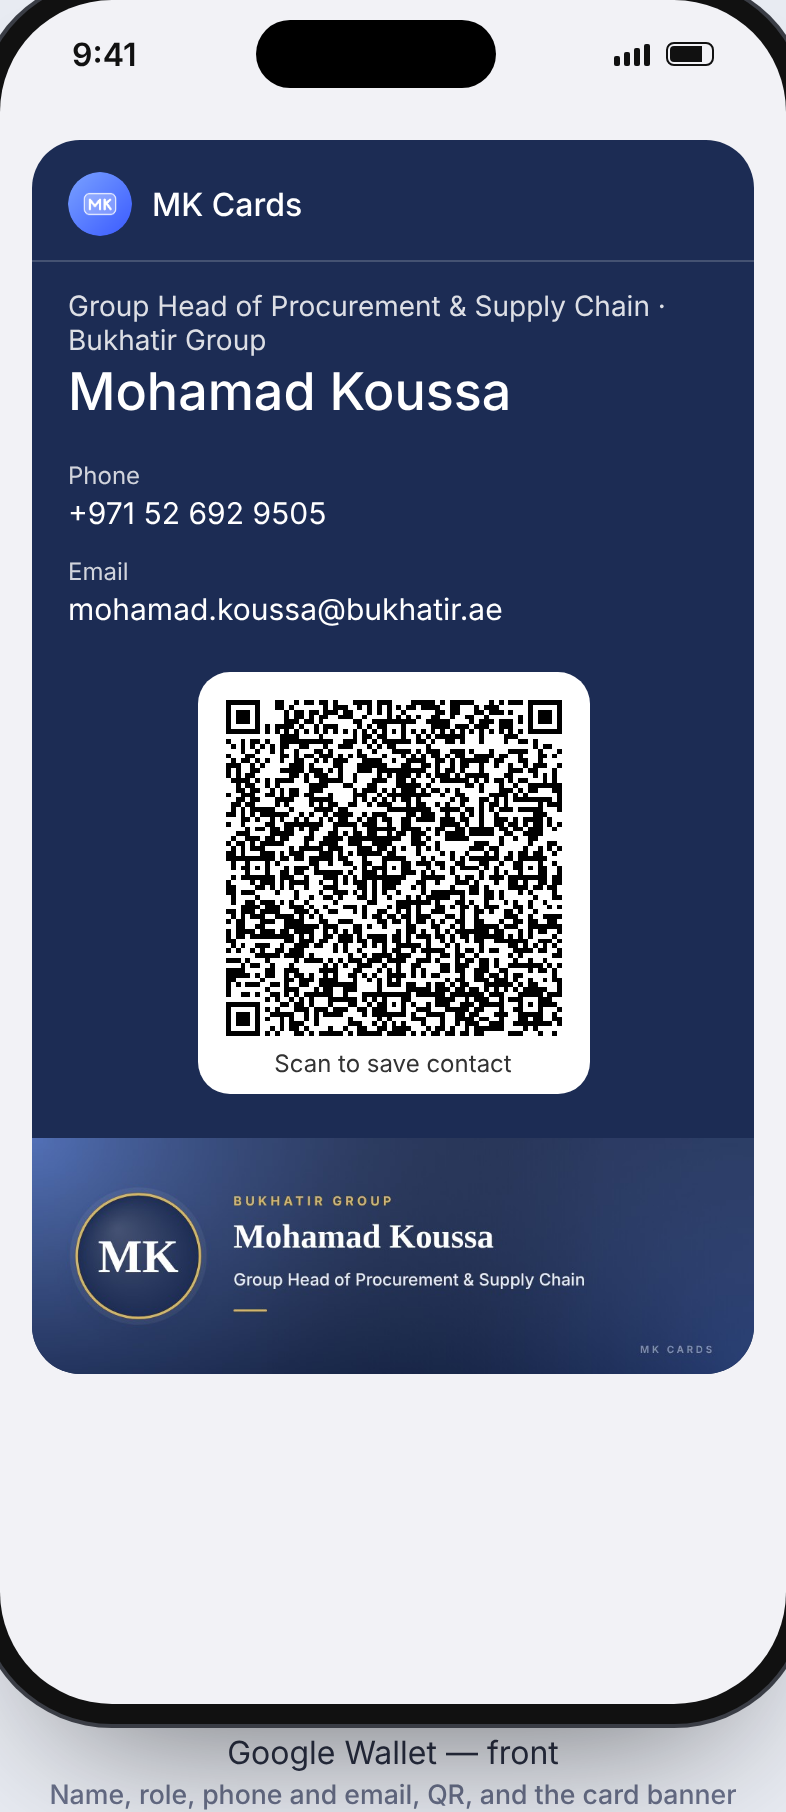
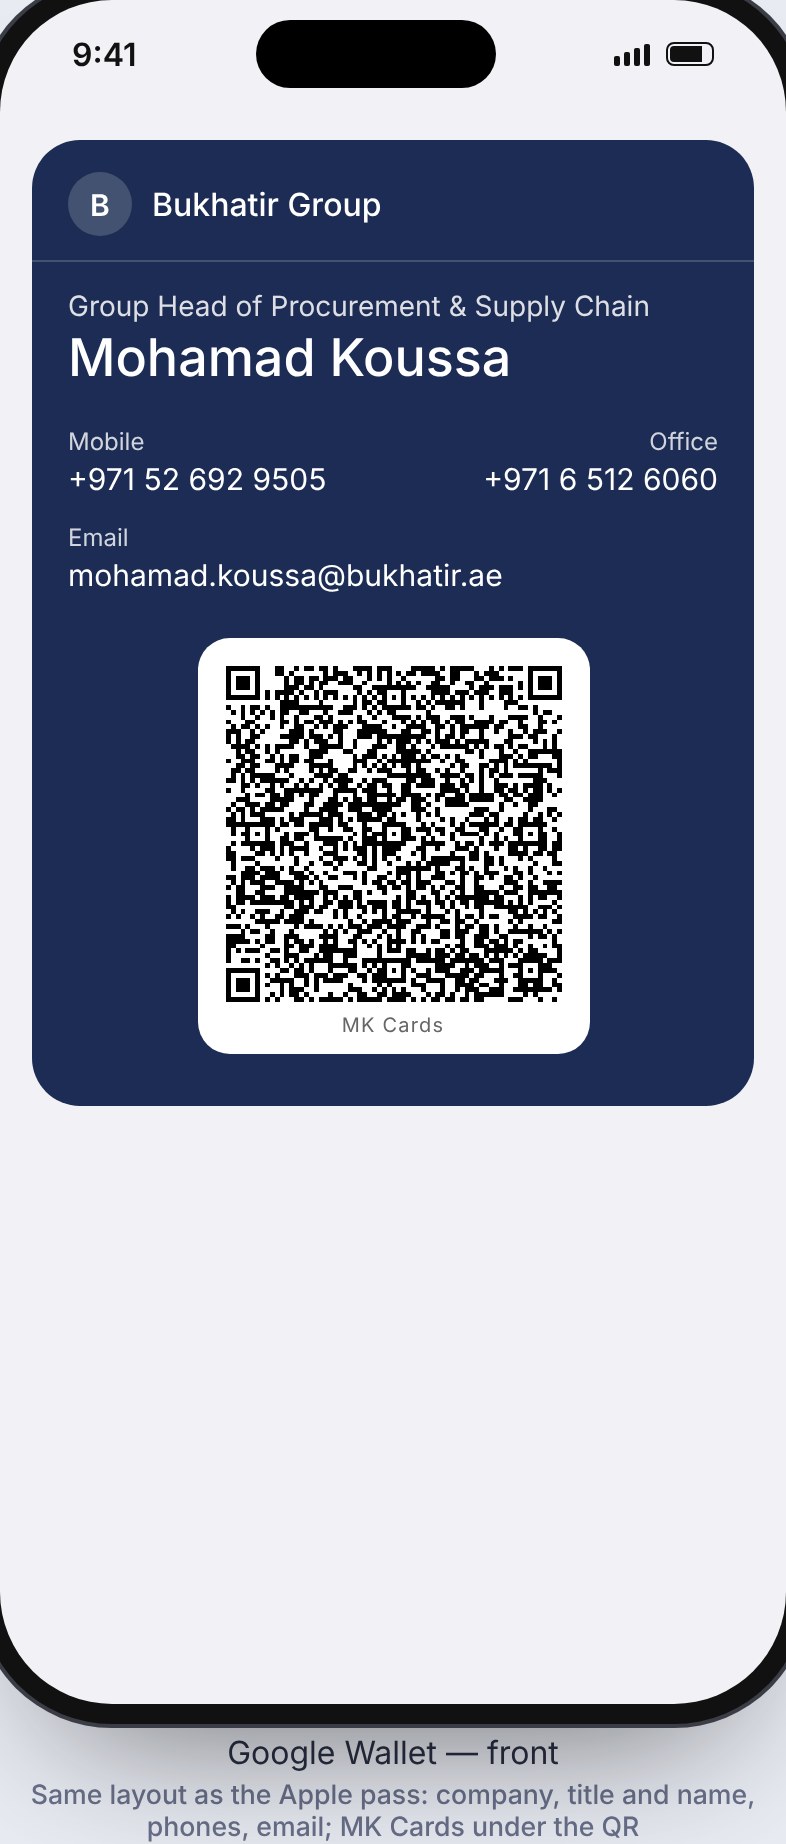
Google Wallet pass matches the Apple pass
Company at the top, title over the name, two phone numbers side by side, then the
email; no logo or banner; "MK Cards" in small print under the QR code.

Claude-Session: https://claude.ai/code/session_01CiqwjSqqycpt33yuy6eG8J

Changed region(s): [[0.0305, 0.0927, 0.9771, 0.7726], [0.0, 0.8653, 1.0, 1.0], [0.6412, 0.2163, 0.916, 0.2781]]

diff --git a/web/src/wallet.js b/web/src/wallet.js
@@ -173,49 +173,55 @@ function sign(manifestText, cert, key) {
 
 const text = (value) => ({ defaultValue: { language: 'en', value } });
 
+// Google Wallet mirrors the Apple pass: company at the top, title over the name, two phone numbers side by side,
+// then the email; no pictures; "MK Cards" in small print under the QR code. (Google picks the text colours itself
+// and has no logo, so it shows the company's first letter in the top corner.)
 function googleClass(issuer) {
+  const value = (id) => ({ firstValue: { fields: [{ fieldPath: `object.textModulesData['${id}']` }] } });
   return {
     id: `${issuer}.mkcards_business_card`,
-    // Show the phone and the email on the front of the pass, each on its own row so neither is squeezed.
     classTemplateInfo: {
       cardTemplateOverride: {
-        cardRowTemplateInfos: ['phone', 'email'].map((id) => ({
-          oneItem: { item: { firstValue: { fields: [{ fieldPath: `object.textModulesData['${id}']` }] } } },
-        })),
+        cardRowTemplateInfos: [
+          { twoItems: { startItem: value('phone'), endItem: value('phone2') } },
+          { oneItem: { item: value('email') } },
+        ],
       },
     },
   };
 }
 
-function googleObject(issuer, { cardId, card, link, origin, hero }) {
+function googleObject(issuer, { cardId, card, link }) {
   const phones = card.phones || [];
   const emails = card.emails || [];
+  const phoneLabel = (p) => ({ mobile: 'Mobile', work: 'Office', home: 'Home' })[p.label] || 'Phone';
   const uris = [
     ...phones.map((p, i) => ({ id: `tel${i}`, uri: `tel:${p.value.replace(/[^\d+]/g, '')}`, description: `Call ${p.value}` })),
     ...emails.map((e, i) => ({ id: `mail${i}`, uri: `mailto:${e.value}`, description: `Email ${e.value}` })),
     card.whatsapp && { id: 'whatsapp', uri: `https://wa.me/${card.whatsapp.replace(/\D/g, '')}`, description: 'Chat on WhatsApp' },
     card.website && { id: 'web', uri: card.website, description: 'Website' },
-    { id: 'page', uri: link, description: 'My MK card' },
+    { id: 'page', uri: link, description: 'My card' },
   ].filter(Boolean);
+  const second = phones[1] ? { id: 'phone2', header: phoneLabel(phones[1]), body: phones[1].value }
+    : card.whatsapp ? { id: 'phone2', header: 'WhatsApp', body: card.whatsapp } : null;
   return {
     id: `${issuer}.mk_${cardId}`,
     classId: `${issuer}.mkcards_business_card`,
     state: 'ACTIVE',
-    cardTitle: text('MK Cards'),
+    cardTitle: text(card.company || card.name),
+    subheader: text(card.title || 'Business card'),
     header: text(card.name),
-    subheader: text([card.title, card.company].filter(Boolean).join(' · ') || 'Business card'),
     hexBackgroundColor: passColours(card).hex,
-    logo: { sourceUri: { uri: `${origin}/wallet/google-logo.png` }, contentDescription: text('MK Cards') },
-    ...(hero ? { heroImage: { sourceUri: { uri: origin + hero }, contentDescription: text(`${card.name}'s card`) } } : {}),
     textModulesData: [
-      phones[0] && { id: 'phone', header: 'Phone', body: phones[0].value },
+      phones[0] && { id: 'phone', header: phoneLabel(phones[0]), body: phones[0].value },
+      second,
       emails[0] && { id: 'email', header: 'Email', body: emails[0].value },
-      card.company && { id: 'company', header: 'Company', body: card.company },
+      card.department && { id: 'department', header: 'Department', body: card.department },
       card.address && { id: 'address', header: 'Address', body: card.address },
       card.bio && { id: 'about', header: 'About', body: card.bio },
     ].filter(Boolean),
     linksModuleData: { uris },
-    barcode: { type: 'QR_CODE', value: qrVCard(card, link), alternateText: 'Scan to save contact' },
+    barcode: { type: 'QR_CODE', value: qrVCard(card, link), alternateText: 'MK Cards' },
   };
 }
 

diff --git a/web/public/card-art.js b/web/public/card-art.js
@@ -1,6 +1,5 @@
 // Pictures drawn from a card in the browser when it is saved:
 //   og    1200×630 JPEG  — the image shown in link previews (WhatsApp, LinkedIn, iMessage…)
-//   hero  1032×336 JPEG  — the banner at the bottom of the Google Wallet pass
 // Drawing here, not on the server, means every language renders with the phone's own fonts.
 // The look follows the card page: a deep shade of the card's colour, a round photo with a fine gold ring,
 // the name in a serif face and the company as a small spaced heading.
@@ -43,7 +42,6 @@ export async function drawCardArt(card, link) {
   const photo = card.photo ? await loadImage(card.photo).catch(() => null) : null;
   return {
     og: drawPreview(card, link, photo).toDataURL('image/jpeg', 0.9),
-    hero: drawHero(card, link, photo).toDataURL('image/jpeg', 0.9),
   };
 }
 
@@ -92,25 +90,6 @@ function drawPreview(card, link, photo) {
   ctx.fillText(fit(ctx, label, pillW - 52), pillX + 26, pillY + 26);
   ctx.textBaseline = 'alphabetic';
   text(ctx, 'MK CARDS', 48 + 70, H - 48 - 58, size, `600 17px ${SANS}`, 20, 1, 'rgba(255,255,255,.5)', 'left', 5, true);
-  return canvas;
-}
-
-function drawHero(card, link, photo) {
-  const W = 1032, H = 336;
-  const { canvas, ctx } = surface(W, H);
-  const t = cardTheme(card);
-  backdrop(ctx, W, H, t, card.style);
-  const size = 176;
-  avatar(ctx, card, photo, 64 + size / 2, H / 2, size, t);
-  const x = 64 + size + 48;
-  const maxW = W - 56 - x;
-  const align = isRtl(card.name) ? 'right' : 'left';
-  let y = 96;
-  if (card.company) y = text(ctx, card.company.toUpperCase(), x, y, maxW, `650 18px ${SANS}`, 28, 1, t.hi, align, 5) + 10;
-  y = text(ctx, card.name || 'MK Cards', x, y + 22, maxW, `700 48px ${SERIF}`, 54, 1, '#fff', align);
-  if (card.title) y = text(ctx, card.title, x, y, maxW, `500 24px ${SANS}`, 32, 1, 'rgba(255,255,255,.9)', align);
-  rule(ctx, align === 'right' ? x + maxW - 48 : x, y + 2, t.hi, 48);
-  text(ctx, 'MK CARDS', W - 56 - 160, H - 30, 160, `600 14px ${SANS}`, 18, 1, 'rgba(255,255,255,.45)', 'right', 4, true);
   return canvas;
 }
 

diff --git a/web/src/index.js b/web/src/index.js
@@ -586,7 +586,6 @@ async function walletPass(request, env, url, id, kind) {
   if (!row) throw new HttpError(404, 'Card not found.');
   const card = readCard(row.data);
   const link = `${url.origin}/${user.username}${row.slug ? '/' + row.slug : ''}`;
-  const media = await cardMedia(env, id);
   const ready = walletStatus(env);
 
   if (kind === 'apple.pkpass') {
@@ -607,7 +606,7 @@ async function walletPass(request, env, url, id, kind) {
     });
   }
   if (!ready.google) throw new HttpError(503, 'Google Wallet passes are not set up yet.');
-  const save = await googleSaveUrl(env, { cardId: id, card, link, origin: url.origin, hero: media.hero && media.hero.path });
+  const save = await googleSaveUrl(env, { cardId: id, card, link, origin: url.origin });
   return new Response(null, { status: 302, headers: { location: save, 'cache-control': 'private, no-store' } });
 }
 
